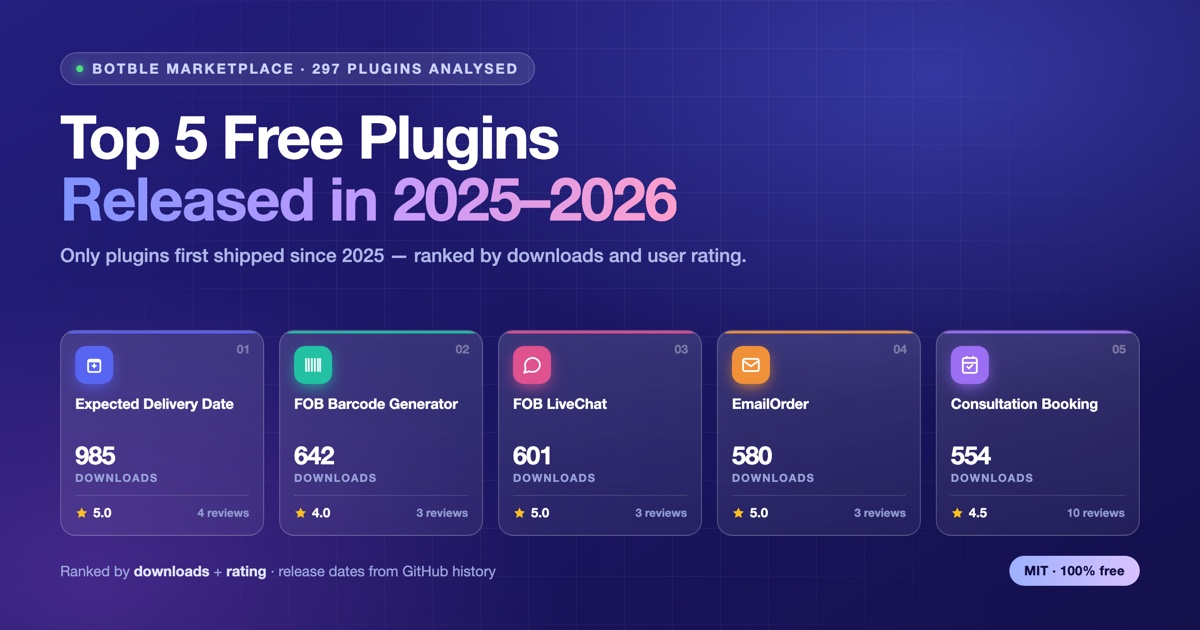
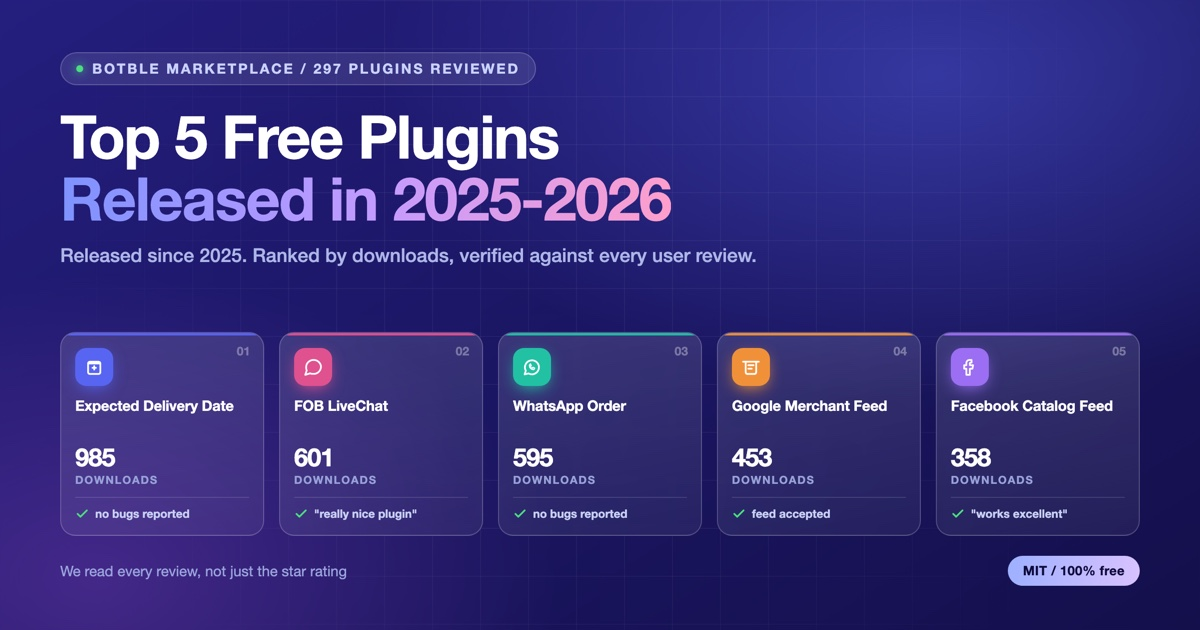
post: rerank free plugins on review evidence, drop em dashes

diff --git a/top-5-free-botble-cms-plugins-2025-2026.md b/top-5-free-botble-cms-plugins-2025-2026.md
@@ -1,6 +1,6 @@
 ---
-title: "Top 5 Free Botble CMS Plugins Released in 2025–2026"
-description: "We dated every free plugin on the Botble Marketplace and ranked only the ones released since 2025. Here are the 5 best new free plugins — Expected Delivery Date, Barcode Generator, LiveChat, EmailOrder, and Consultation Booking."
+title: "Top 5 Free Botble CMS Plugins Released in 2025-2026"
+description: "We read every review on every free plugin released since 2025, not just the star ratings, and ranked the five that users confirm actually work: Expected Delivery Date, FOB LiveChat, WhatsApp Order, Google Merchant Feed and Facebook Catalog Feed."
 categories:
   - Buyer Guides
   - Development
@@ -16,166 +16,146 @@ status: published
 is_featured: false
 ---
 
-# Top 5 Free Botble CMS Plugins Released in 2025–2026
+# Top 5 Free Botble CMS Plugins Released in 2025-2026
 
-Most "best free plugins" lists are really lists of the *oldest* free plugins. Download counters only go up, so a plugin from 2020 will out-rank a genuinely better one from last year forever.
+Most "best free plugins" lists are really lists of the oldest free plugins. Download counters only go up, so a plugin from 2020 will out-rank a better one from last year forever.
 
-So we did it the other way round. We pulled all **297 plugins** from the [Botble Marketplace](https://marketplace.botble.com/plugins), worked out when each free plugin was actually first released, threw out everything published before 2025, and ranked only what's left.
+We did it the other way round. We went through all 297 plugins in the [Botble Marketplace](https://marketplace.botble.com/plugins), kept only the free ones first released since 2025, and ranked those.
 
-The result is a list of plugins built against **current Botble** — most require core 7.5.0+ — rather than plugins that happen to have had a five-year head start.
+What you get is a list of plugins built against current Botble. Most of them require core 7.5.0 or higher.
 
-## How we dated and ranked them
+## How we ranked them
 
-This took more work than it should have, and it's worth being upfront about why.
+Two filters to start: free, and first released on or after 1 January 2025. Then we ranked what was left by download count.
 
-**The marketplace doesn't publish a release date.** There's no date on the product page, and the `Product` JSON-LD carries no `datePublished` field — the only `datePublished` values in the schema belong to individual *reviews*. The sitemap's `lastmod` is useless too: 332 of 348 product URLs claim they were modified this month, because that timestamp gets bumped every time the view counter ticks.
+The important part is what we did next, and it's worth explaining because it changed the list completely.
 
-So we derived the release date from two sources:
+**We ignored the star ratings and read the reviews instead.** On the marketplace, the review box doubles as a support channel. People open it to report a bug or ask for a feature, leave 5 stars out of politeness, and move on. The result is that a 5.0 average tells you almost nothing. One plugin in this group averages 4.3 stars across four reviews, and every single one of those four reviews says the plugin won't install.
 
-1. **GitHub repository history.** Nearly every community plugin links to a public repo. We resolved each one and took its **first release date** (falling back to repo creation). This is exact.
-2. **Earliest review date**, for the handful of plugins with no public repo. A plugin can't be reviewed before it exists, so this is a *lower bound* on age, not a precise date. These are marked with a **~** below.
+So we read all of them. A plugin only made this list if its reviews contain someone confirming it works and no unresolved reports of it failing. That knocked out several plugins with more downloads than the ones below, including the two highest-rated new plugins in the catalogue.
 
-Then we applied three mechanical filters — free, first released on or after **1 January 2025**, and **at least 3 user ratings** — and ranked the survivors by download count.
-
-> **One honest caveat on views.** The marketplace's *Most Viewed* sort only exposes its top 40, and every free plugin in it is a pre-2025 plugin. View data therefore can't separate plugins inside this cohort, so unlike a straight all-time ranking, this list is scored on **downloads and rating only**.
-
-Two popular new plugins get cut by the ratings filter, and it's fair to name them: **announcementadmin** has 729 downloads — enough for 2nd place — but **zero ratings**, so there's no quality signal at all. **FOB Geo Data Detector** has 593 downloads but averages 3.0.
+If you take one thing from this article, make it that: on any plugin marketplace, open the reviews and read them. The number above them is not the same thing.
 
 > Data snapshot: August 2026. All five plugins are MIT-licensed and free.
 
 ## The ranking at a glance
 
-| # | Plugin | Released | Downloads | Rating |
-|---|--------|----------|-----------|--------|
-| 1 | [Expected Delivery Date](https://marketplace.botble.com/products/FriendsOfBotble/fob-expected-delivery-date) | Mar 2025 | 985 | 5.0 ★ (4) |
-| 2 | [FOB Barcode Generator](https://marketplace.botble.com/products/FriendsOfBotble/fob-barcode-generator) | May 2025 | 642 | 4.0 ★ (3) |
-| 3 | [FOB LiveChat](https://marketplace.botble.com/products/FriendsOfBotble/fob-live-chat) | Dec 2025 | 601 | 5.0 ★ (3) |
-| 4 | [EmailOrder](https://marketplace.botble.com/products/botble/EmailOrder) | May 2025 | 580 | 5.0 ★ (3) |
-| 5 | [Consultation Booking](https://marketplace.botble.com/products/botble/consultation-booking) | ~Sep 2025 | 554 | 4.5 ★ (10) |
-
----
+| # | Plugin | Released | Downloads | What reviewers say |
+|---|--------|----------|-----------|--------------------|
+| 1 | [Expected Delivery Date](https://marketplace.botble.com/products/FriendsOfBotble/fob-expected-delivery-date) | Mar 2025 | 985 | "Phenomenal stuff!" |
+| 2 | [FOB LiveChat](https://marketplace.botble.com/products/FriendsOfBotble/fob-live-chat) | Dec 2025 | 601 | "Really nice plugin" |
+| 3 | [FOB Product WhatsApp Order](https://marketplace.botble.com/products/FriendsOfBotble/fob-product-whatsapp-order) | Oct 2025 | 595 | No issues reported |
+| 4 | [Google Merchant Feed](https://marketplace.botble.com/products/rajaishtiaq6/google-merchant-feed) | Nov 2025 | 453 | Feed accepted by Merchant Center |
+| 5 | [FOB Facebook Catalog Feed](https://marketplace.botble.com/products/FriendsOfBotble/fob-facebook-catalog-feed) | Aug 2025 | 358 | "Works excellent" |
 
 ## 1. Expected Delivery Date
 
-**985 downloads · 5.0 ★ (4 ratings) · released March 2025 · v1.0.8 · requires Botble ≥ 7.5.0, PHP 8.2+**
+985 downloads, released March 2025, v1.0.8. Requires Botble 7.5.0+ and PHP 8.2+.
 
-The most downloaded new free plugin, and the only one in this cohort to clear 900 — with a clean 5.0 rating behind it.
+The most downloaded new free plugin, and the only one in this group past 900. It's also the only plugin we looked at with four reviews and not one bug report.
 
-It adds an expected delivery estimate to your products, and it works across every Botble ecommerce script. You set a minimum and maximum number of delivery days per product, with a site-wide default for anything you haven't configured individually, and the estimate renders on the product page.
+It shows an expected delivery estimate on your products and works across every Botble ecommerce script. You set a minimum and maximum number of delivery days per product, plus a site-wide default for anything you haven't configured individually.
 
-The reason this matters more than it sounds: "when will it arrive?" is one of the biggest pre-purchase objections in ecommerce, and answering it on the product page rather than at checkout measurably reduces abandonment. Buyers who can't find a delivery estimate frequently just leave.
+"When will it arrive?" is one of the biggest pre-purchase questions in ecommerce, and answering it on the product page instead of at checkout cuts abandonment. Buyers who can't find a delivery estimate often just leave.
 
-Colours and icon are configurable under **Settings → Expected Delivery Date**, so it can be styled to match your theme without touching a template.
+Colours and icon are configurable under Settings > Expected Delivery Date, so you can match your theme without touching a template.
 
-**Use it when:** you sell physical goods with a predictable dispatch window.
+Install it if you sell physical goods with a predictable dispatch window. Skip it if you're digital-only, or if your delivery times swing too much to quote a range honestly.
 
-**Skip it when:** you're digital-only, or your delivery times swing too wildly to quote a range honestly.
+## 2. FOB LiveChat
 
-## 2. FOB Barcode Generator
+601 downloads, released December 2025, v1.0.5. Requires Botble 7.3.0+.
 
-**642 downloads · 4.0 ★ (3 ratings) · released May 2025 · v1.0.3 · requires Botble ≥ 7.5.0**
+The newest plugin here, released in December 2025 and already past 600 downloads. That's the fastest uptake in this group.
 
-Easily the most feature-dense plugin on this list, and the one that replaces actual paid software.
+It adds a floating AJAX live chat widget for real-time visitor support, with an admin panel for handling conversations. There's no third-party SaaS involved and no external script tag, so conversations stay in your own database. Hosted chat widgets route visitor conversations through someone else's servers and charge per seat forever. For a small team, a self-hosted widget usually covers it.
 
-It generates and prints barcode labels for products and orders, supporting **Code 128, EAN-13, EAN-8, UPC-A, UPC-E, QR Code, and Data Matrix**. Output goes to A4, Letter, P4 label sheets, or thermal printers (4×6 and 2×1) — so it works with the label printers people actually have in a warehouse.
+Two things reviewers flagged, neither of them breakage. The widget shows a "Powered By FOB" link in the chat window, and the online status is always on rather than reflecting whether anyone is actually there. Both are worth knowing before you put it in front of customers.
 
-You get granular control over what appears on each label, choosing from 14 product fields (name, SKU, price, brand, category, weight, dimensions, stock, and so on), with bulk generation across many products at once and a print preview before you commit a sheet.
+Reaching v1.0.5 within a few months of release suggests the author is iterating quickly.
 
-Worth noting: it's completely self-contained, with **no Composer commands required** to install — a genuine convenience if you're deploying to shared hosting where you can't run Composer.
+Install it if you're paying a subscription for a chat widget and you need one person answering messages.
 
-The 4.0 average is the lowest in this top 5, though across only 3 ratings. Given the scope of what it does, that still reads as a strong result rather than a warning.
+**If you need more than that, look at [Tawkly](https://marketplace.botble.com/portfolio/tawkly)** ($20.30, by Botble Technologies, 4.8 stars from 5 reviews). It's the paid version of this idea and it's built for a support team rather than a solo admin. Agents get their own portal at `/agent/login` with a dashboard, messenger and availability toggle, separate from admin users. New conversations round-robin to whoever has the fewest open threads. On top of that you get file attachments with signed download links, a canned-response library, proactive chat, working-hours scheduling that flips you online and offline automatically, and webhooks into Slack, Discord, Telegram, n8n or Zapier. Still self-hosted with no monthly fee, and there's a [live demo](https://live-chat.botble.com) including the agent portal.
 
-**Use it when:** you run physical inventory, a warehouse, or a retail counter.
+## 3. FOB Product WhatsApp Order
 
-**Skip it when:** you don't print anything.
+595 downloads, released October 2025, v1.0.1. Requires Botble 7.5.0+ and PHP 8.1+.
 
-## 3. FOB LiveChat
+Adds a "Chat on WhatsApp" button to product pages. The customer taps it, WhatsApp opens with a message already filled in containing the product details, and they're talking to you.
 
-**601 downloads · 5.0 ★ (3 ratings) · released December 2025 · v1.0.5 · requires Botble ≥ 7.3.0**
+In a lot of markets, Brazil, India, Indonesia, the Middle East and most of Southeast Asia, WhatsApp is the sales channel. Buyers don't fill in contact forms or complete a checkout flow, they message you and ask if you have it in stock. This turns that into one tap from the product page.
 
-The newest plugin on this list — released in December 2025 and already past 600 downloads, which is the fastest uptake in this cohort.
+You configure the message template with dynamic product variables, control button colour and placement, and set display rules based on stock status. It validates international phone numbers and is fully translatable.
 
-It adds a floating AJAX live chat widget to your site for real-time visitor support, with an admin-side panel for handling conversations. No third-party SaaS, no per-agent monthly fee, no external script tag: the conversations stay in your own database.
+No reviewer has reported a problem with it, though that's across only two reviews, so it's a thinner signal than the two above.
 
-That last point is the real argument for it. Hosted chat widgets mean piping visitor conversations through someone else's servers and paying per seat forever. For a small team, a self-hosted widget is often all you need.
+Install it if your customers already message you on WhatsApp.
 
-At v1.0.5 within months of release, the author is clearly iterating quickly.
+## 4. Google Merchant Feed
 
-**Use it when:** you want live chat without a SaaS subscription or a third-party script on your pages.
+453 downloads, released November 2025, v1.1.0, by Ishtiaq Ahmed.
 
-**Skip it when:** you need a full omnichannel helpdesk with routing and SLAs — that's a different class of tool.
+Auto-generates a Google Shopping XML feed from your product catalogue so you can list products in Google Merchant Center without exporting spreadsheets by hand.
 
-## 4. EmailOrder
+The feed updates in real time from your store and includes title, description, price, sale price, brand, categories, images and stock availability. Categories are mapped to Google product types automatically, and pricing uses whatever currency your store is configured for.
 
-**580 downloads · 5.0 ★ (3 ratings) · released May 2025 · v1.0.1 · Botble ecommerce**
+One reviewer running it on Shofy confirmed the feed generates and Merchant Center accepts it, which is the thing you actually need to know. The same reviewer noted that apparel products throw warnings in Merchant Center, because Google wants size, colour and age group attributes for clothing that the feed doesn't currently map. If you sell clothes, expect to fill those in on Google's side.
 
-A small plugin that removes a genuinely annoying daily task.
+Install it if you want to run Google Shopping ads. Note it pairs naturally with the next one.
 
-It lets you send a personalised email to a customer **directly from the order detail page** in the admin panel, instead of copying an address into your mail client and writing the message from scratch. It ships with reusable templates for the messages you send constantly — *Order Delivered*, *Delayed*, *Processing* — and logs every message against the order so you have a record of what was said and when.
+## 5. FOB Facebook Catalog Feed
 
-That log is the underrated part. When a customer says "nobody told me it was delayed", the answer is on the order.
+358 downloads, released August 2025, v1.0.3.
 
-At v1.0.1 it's the least mature release here, and its author has two other plugins on the marketplace rated 2.0 — so this one's 5.0 across 3 ratings is the thing to weigh, not the author's overall track record.
+The same job as above, pointed at Facebook. It generates a Facebook Catalog Feed XML compatible with Commerce Manager, and because Facebook accepts the Google Shopping feed format, it works for both.
 
-**Use it when:** you manually email customers about order status more than a couple of times a week.
+That's exactly what its one reviewer reports: it works for both Google Merchant and Facebook commerce. Lowest download count on this list, but an unambiguous confirmation from someone running it in production.
 
-## 5. Consultation Booking
+It's more configurable than the Google plugin. You get four separate feed URLs (all products, new, featured, on sale), the option to include or exclude out-of-stock items, the option to list product variations as separate items, a fallback brand name, and configurable condition and availability text. There's an admin dashboard widget with the feed URLs so you're not hunting for them.
 
-**554 downloads · 4.5 ★ (10 ratings) · released ~September 2025 · v1.2.5 · requires Botble ≥ 7.3.0**
-
-Fifth on downloads, but by one measure the most trustworthy plugin in this entire cohort: **10 ratings** — nearly double any other plugin released since 2025, and more than most plugins twice its age.
-
-It turns a Botble site into an appointment booking system: consultation services, consultant profiles with availability, a frontend AJAX booking form, and full backend management with role-based permissions. You drop it onto any page with a `[consultation-booking]` shortcode, and it inherits your theme's colours including dark mode.
-
-It's also the most developed release here at **v1.2.5** — the only plugin in the top 5 already on a second minor version, which lines up with the review count. People are using it and the author is responding.
-
-**Use it when:** you're a consultant, agency, clinic, or any service business that books time rather than shipping products.
-
-**Skip it when:** you need payment-on-booking or multi-location resource scheduling — check the feature list against your workflow first.
-
----
+Install it if you're running Facebook or Instagram Shopping. If you want both Google and Facebook and only want one plugin, start here, since the format covers both.
 
 ## Honourable mentions
 
-Strong 2025+ releases that missed the cut, mostly on the 3-rating minimum:
+- **[Login Guard](https://marketplace.botble.com/products/botble/login-guard)** (271 downloads, Jan 2026, by Botble Technologies). Detects new device logins by fingerprinting user agent and IP, emails the user, and lets them manage trusted devices from their profile. Works for both admin and customer accounts. Its one review reads "Excellent, works as described!" Too few downloads to rank, but it's clean and it's a security win.
+- **[FOB Barcode Generator](https://marketplace.botble.com/products/FriendsOfBotble/fob-barcode-generator)** (642 downloads, May 2025). By downloads this would sit at number 2, and it's the most capable plugin in the whole group: seven barcode formats, thermal and sheet printing, bulk generation, 14 configurable label fields. It's here rather than in the list because two reviewers report real problems, one that permissions don't work for anyone below SuperAdmin, and one that the seller dashboard redirects to admin on multi-vendor setups. If you're a single admin printing labels, it will probably serve you well. If you run multi-vendor, wait.
+- **[FOB Disable Right Click](https://marketplace.botble.com/products/FriendsOfBotble/fob-disable-right-click)** (420 downloads, Nov 2025). Basic content protection. One reviewer confirms it works on shop script v1.4.2, another says it does nothing on 1.8.2.1, so check it against your version.
 
-- **[FOB Request Quote for eCommerce](https://marketplace.botble.com/products/FriendsOfBotble/fob-request-quote)** (531 downloads · 5.0 ★ across **5** ratings · Sep 2025) — the narrowest miss on the list, and the best-reviewed after Consultation Booking. Adds a "Request a Quote" modal to product pages with status tracking through Pending → Processing → Completed. Essential for B2B stores that negotiate rather than list prices.
-- **[FOB Product WhatsApp Order](https://marketplace.botble.com/products/FriendsOfBotble/fob-product-whatsapp-order)** (595 downloads · 5.0 ★, 2 ratings · Oct 2025) — one-click WhatsApp ordering from the product page, with a pre-filled message containing the product details.
-- **[FOB Google Maps Geocoding](https://marketplace.botble.com/products/FriendsOfBotble/fob-google-maps-geocoding)** (608 downloads · 5.0 ★, 1 rating · May 2025) — address autocomplete and automatic lat/long. Note the hard limitation: it only supports Flex Home, Jobcy, JobBox, Hously, and Homzen.
-- **[PWA](https://marketplace.botble.com/products/motionmedia/pwa)** (535 downloads · 4.3 ★, 4 ratings · ~Dec 2025) — makes your site installable and offline-capable. Requires one manual step: adding the manifest link to your theme's Header HTML.
-
-Notice a pattern? **Friends Of Botble accounts for three of the top five and three of the four honourable mentions.** If you only follow one publisher on the marketplace, follow that one.
+Four of the five plugins in the main list are published by **Friends Of Botble**. If you follow one publisher on the marketplace, make it that one.
 
 ## Installing any of these
 
 All five install the same way, and neither method needs the command line.
 
-**From the admin panel (recommended):**
+From the admin panel:
 
-1. Go to **Admin → Plugins → Add new**.
+1. Go to Admin > Plugins > Add new.
 2. Search for the plugin by name.
-3. Click **Install**, then **Activate**.
+3. Click Install, then Activate.
 
-**Manually:**
+Manually:
 
 1. Download the ZIP from the plugin's marketplace page.
 2. Extract it into `platform/plugins/`.
-3. Go to **Admin → Plugins** and click **Activate**.
+3. Go to Admin > Plugins and click Activate.
 
-**Check your core version first.** This matters more for new plugins than old ones: Expected Delivery Date, Barcode Generator, and Request Quote all require **Botble 7.5.0+**, and Expected Delivery Date also wants **PHP 8.2+**. LiveChat and Consultation Booking are more forgiving at 7.3.0+. If you're on an older core, [upgrade first](https://botble.com/how-to-upgrade-botble-cms-with-customization-code).
+Check your core version first. Expected Delivery Date and WhatsApp Order both need Botble 7.5.0+, and Expected Delivery Date also wants PHP 8.2+. LiveChat runs on 7.3.0+. If you're on an older core, [upgrade first](https://botble.com/how-to-upgrade-botble-cms-with-customization-code).
 
-## One caveat worth stating
+## Before you install
 
-Free and MIT-licensed doesn't mean supported. These are community plugins maintained by individual developers on their own time — several carry a "Support the Author" PayPal link on their marketplace page, which tells you the funding model honestly.
+Free and MIT-licensed doesn't mean supported. These are community plugins maintained by individual developers in their own time, and several carry a "Support the Author" PayPal link on their marketplace page, which tells you the funding model honestly.
 
-Newer plugins carry a specific version of that risk. A 2020 plugin with 3,000 downloads has proven it will be maintained; a plugin from eight months ago hasn't yet. The 3-rating minimum used here filters out the completely untested, but three reviews is still three reviews.
+Newer plugins carry a particular version of that risk. A 2020 plugin with 3,000 downloads has proven it will be maintained. A plugin from eight months ago hasn't yet.
 
-That's not a reason to avoid them — it's a reason to check the changelog date before you make one load-bearing, and to accept that you might end up maintaining a fork. For anything mission-critical — payments, KYC, wholesale pricing — the [official Botble plugins](https://marketplace.botble.com/plugins) come with support attached, and that's usually money well spent.
+So do what we did. Open the reviews before you install, and read past the star rating to what people actually wrote. A plugin with two reviews saying "this works" is a safer bet than one with ten reviews averaging 4.5 where half of them are error messages.
 
-## Wrapping up
+For anything mission-critical like payments, KYC or wholesale pricing, the [official Botble plugins](https://marketplace.botble.com/plugins) come with support attached, and that's usually money well spent.
 
-If you run a physical-goods store, install **Expected Delivery Date** today — it's ten minutes of work against one of the most common reasons people abandon a cart.
+## Where to start
 
-Add **FOB Barcode Generator** if you touch inventory, **FOB LiveChat** if you're paying a monthly fee for a chat widget you could self-host, and **Consultation Booking** if you sell time rather than products.
+If you run a physical-goods store, install Expected Delivery Date today. It's ten minutes of work against one of the most common reasons people abandon a cart.
 
-Browse the full catalogue at [marketplace.botble.com/plugins](https://marketplace.botble.com/plugins) — and if you build something useful, [publish it there](https://marketplace.botble.com). Every plugin on this list started as one developer solving their own problem.
+Add FOB LiveChat if you're paying monthly for a chat widget you could self-host, WhatsApp Order if your customers already message you there, and one of the two feed plugins if you're advertising on Google or Facebook.
+
+Browse the full catalogue at [marketplace.botble.com/plugins](https://marketplace.botble.com/plugins). If you build something useful, [publish it there](https://marketplace.botble.com). Every plugin on this list started as one developer solving their own problem.
